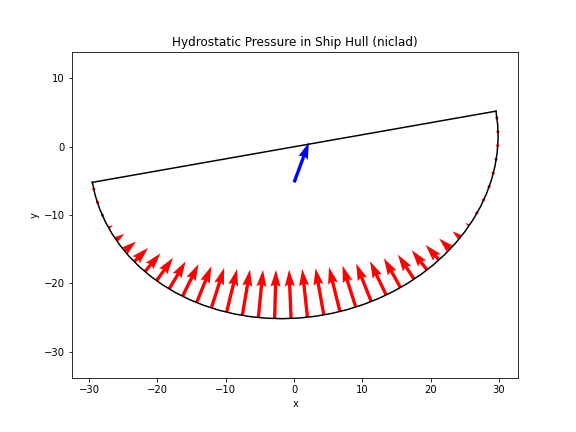
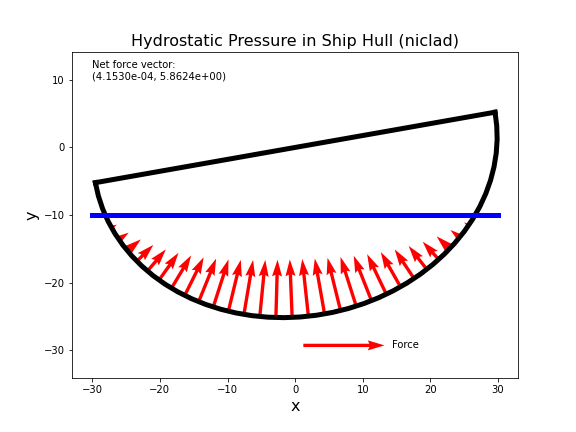
Update HW07

diff --git a/HW/HW07/forces_surface.py b/HW/HW07/forces_surface.py
@@ -22,11 +22,13 @@ def panel_midpoints(x, y):
     """
     
     num_panels = x.size - 1 
-    x_mid, y_mid = np.zeros(num_panels)
+    x_mid = np.zeros(num_panels)
+    y_mid = np.zeros(num_panels)
     
     for i in range(0, num_panels):
-        x_mid[i] = (x[i+1]+x[i])/2.
-        y_mid[i] = quad.midpoint(y[i:i+1], x[i+1]-x[i])
+        x_mid[i] = (x[i+1]+x[i])*0.5
+        y_mid[i] = (y[i+1]+y[i])*0.5
+        #y_mid[i] = quad.midpoint(y[i:i+1], x[i+1]-x[i])
                 
     return x_mid, y_mid
 
@@ -56,8 +58,10 @@ def panel_midforces(x, y, press):
     """
     
     num_panels = x.size - 1 
-    dfx, dfy = np.zeros(num_panels)
-    nx, ny   = np.ones(num_panels)
+    dfx = np.zeros(num_panels)
+    dfy = np.zeros(num_panels)
+    nx = np.ones(num_panels)
+    ny = np.ones(num_panels)
     
     # get the tip and tail locations of vectors normal to panels
     for i in range(0, num_panels):
@@ -67,16 +71,40 @@ def panel_midforces(x, y, press):
         slope = delta_y/delta_x
         
         inv_slope = -1.0/slope
-        scalar = 1.0/np.sqrt(1.0 + (inv_slope**2))  # we need to divide the vector by the square root of the dot product with itself
         
-        nx[i] *= scalar            # normal unit vector, x component
-        ny[i]  = inv_slope*scalar  # normal unit vector, y component
-        
-        #p_mag  = -0.5*(press[i] + press[i+1]) * np.sqrt(delta_x**2 + delta_y**2)
-        dfx[i] = -0.5*(press[i] + press[i+1]) * nx[i] * np.sqrt(delta_x**2 + delta_y**2)
-        dfy[i] = -0.5*(press[i] + press[i+1]) * ny[i] * np.sqrt(delta_x**2 + delta_y**2)
-        
+        length = np.sqrt(delta_x**2 + delta_y**2) # delta s
+        dfx[i] = -0.5*(press[i] + press[i+1]) * delta_y
+        dfy[i] = -0.5*(press[i] + press[i+1]) * -delta_x 
+
     return dfx, dfy
+
+def integrate_forces(dfx, dfy):
+    """
+    Numerically integrates panel forces using midpoint method
+
+    Parameters
+    ----------
+    dfx : 1D np array, floats
+        array of x component forces on each panel
+    dfy : 1D np array, floats
+        array of y component forces on each panel
+
+    Returns
+    -------
+    force_x : float
+        scalar net force in x direction
+    force_y : float
+        scalar net force in y direction
+
+    """
+
+
+    force_x = quad.midpoint(dfx, 1.0) 
+    force_y = quad.midpoint(dfy, 1.0) 
+    
+    return force_x, force_y
+     
+    
 
         
     

diff --git a/HW/HW07/hw07.py b/HW/HW07/hw07.py
@@ -1,4 +1,50 @@
 """hw07.py"""
 
 import matplotlib.pyplot as plt
+import numpy as np
+import forces_surface as fs
 
+# data organization
+data   = np.loadtxt("hydro_pressure.dat")
+theta  = data[:,0]
+x_data = data[:,1]
+y_data = data[:,2]
+press_data = data[:,3]
+
+
+
+
+# calculation
+x_mid, y_mid = fs.panel_midpoints(x_data, y_data)
+dfx, dfy = fs.panel_midforces(x_data, y_data, press_data)
+fx, fy = fs.integrate_forces(dfx, dfy)
+
+dfx_t = dfx/1.e6
+dfy_t = dfy/1.e6
+
+
+# plotting
+fig, ax = plt.subplots(1,1,figsize=(8,6))
+ax.axis('equal')
+
+plt.title("Hydrostatic Pressure in Ship Hull (niclad)", size=16)
+plt.xlabel("x", size=16)
+plt.ylabel("y", size=16)
+
+q = ax.quiver(x_mid, y_mid, dfx_t, dfy_t, color='r', units='xy', scale=1/24.)
+ax.quiverkey(q, X=0.7, Y=0.1, U=1/2., label="Force", labelpos = 'E')
+plt.plot(x_data, y_data, 'k-', linewidth=5)
+plt.plot(np.array([x_data[0], x_data[x_data.size-1]]), np.array([y_data[0], y_data[x_data.size-1]]), 'k-', linewidth=5) # connect ends of half circle
+plt.plot([-30, 30], [-10, -10], 'b-', linewidth=5)      # waterline
+
+# net force vector graphing
+mega = 1.e-6
+text_string = "Net force vector:\n("
+text_string += '{:6.4e}'.format(fx*mega)
+text_string += ", "
+text_string += '{:6.4e}'.format(fy*mega)
+text_string += ")"
+plt.text(-30,10, text_string)
+
+plt.savefig("hydrostatic_force.png")
+plt.show()
